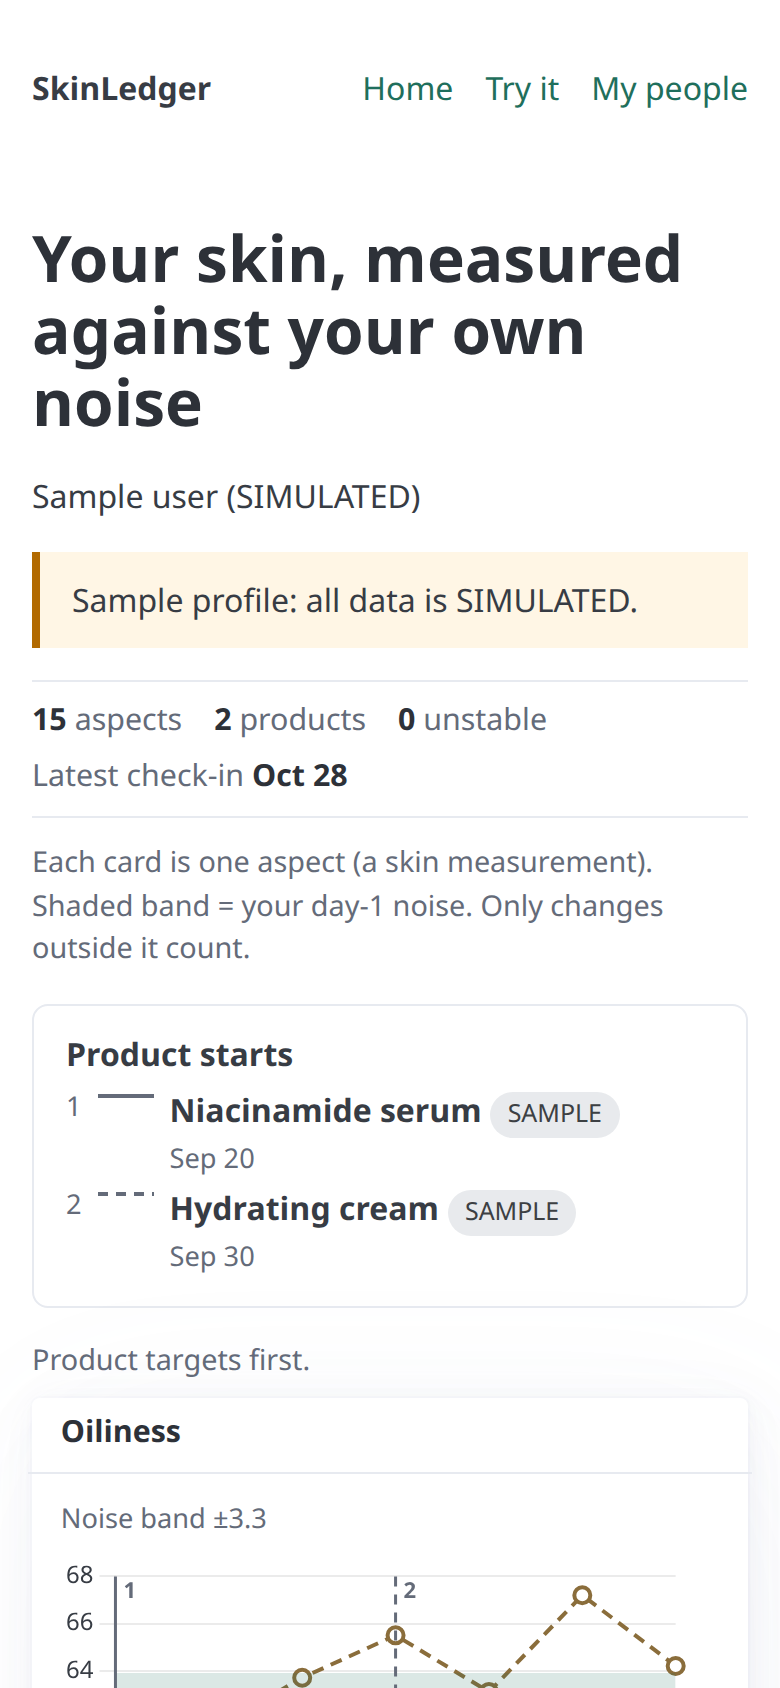
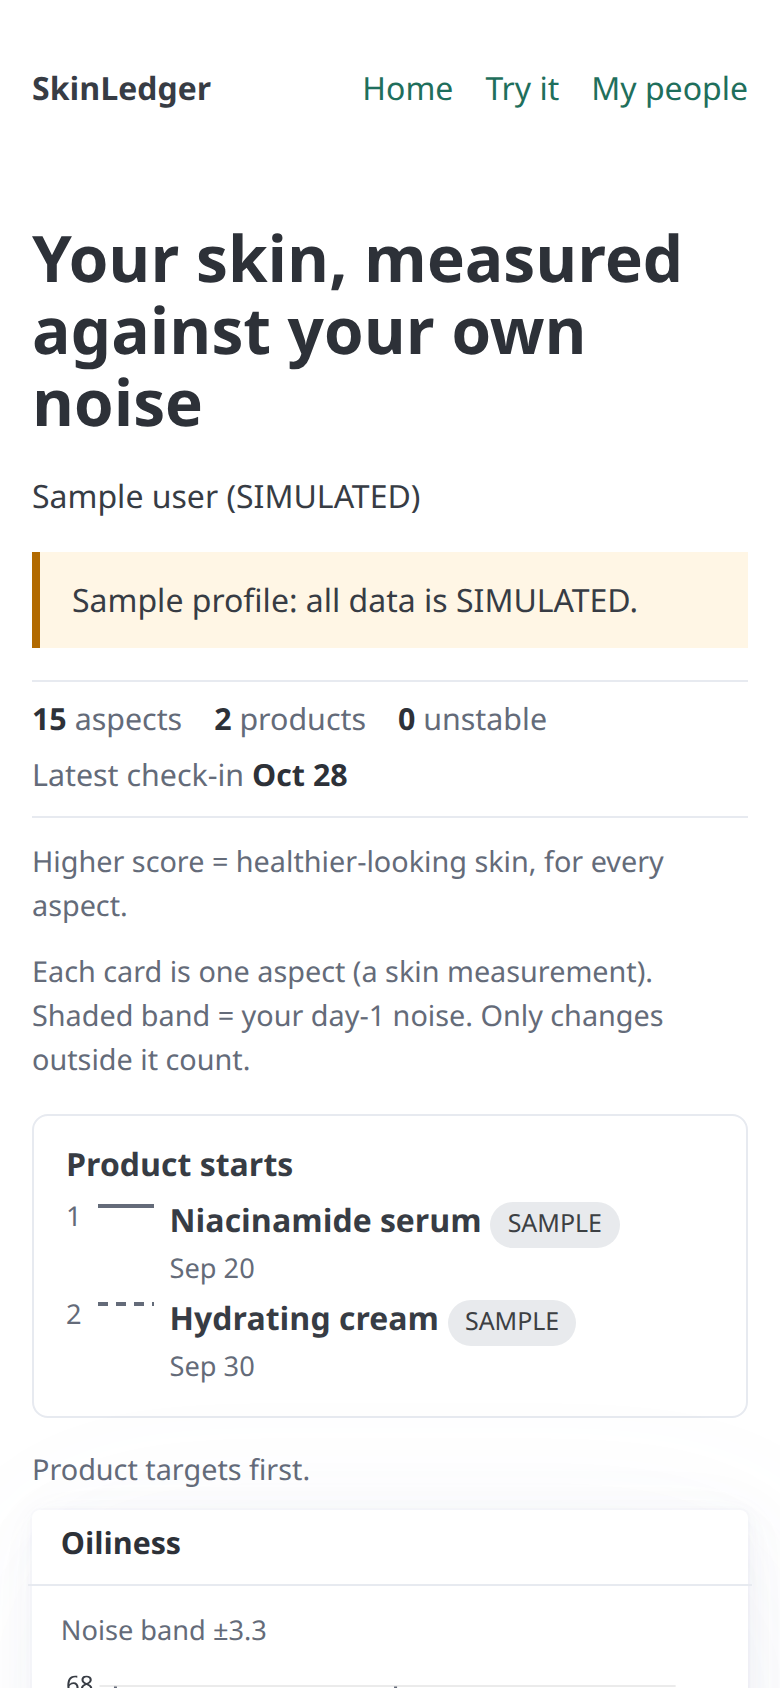
P16b-11: score direction label

Changed region(s): [[0.0308, 0.4929, 0.8923, 1.0], [0.6462, 0.6469, 0.7692, 0.6777], [0.7385, 0.9242, 0.7692, 0.955]]

diff --git a/src/skinledger/web/templates/products.html b/src/skinledger/web/templates/products.html
@@ -65,6 +65,7 @@
         {{ form.targets|length }} of {{ max_targets }} selected
       </p>
       <p class="product-aspects-note">{{ product_aspects_note }}</p>
+      <p class="score-note">{{ score_direction_note }}</p>
       {% set unstable_aspects = aspects|selectattr("unstable")|list %}
       {% if unstable_aspects %}
       <p class="product-unstable-note">{{ unstable_hint }}</p>

diff --git a/src/skinledger/web/templates/verdict.html b/src/skinledger/web/templates/verdict.html
@@ -29,6 +29,7 @@
     {% if target_rows %}
     <h2>{{ verdict_targets_title }}</h2>
     <p class="verdict-note">{{ verdict_aspect_note }}</p>
+    <p class="score-note">{{ score_direction_note }}</p>
     <div class="verdict-table-wrap">
       <table>
         <thead>

diff --git a/src/skinledger/web/templates/timeline.html b/src/skinledger/web/templates/timeline.html
@@ -23,6 +23,7 @@
     <span>{{ timeline_summary_latest }} <strong>{{ summary_latest|short_date }}</strong></span>
     {% endif %}
   </p>
+  <p class="score-note">{{ score_direction_note }}</p>
 
   {% if has_band %}
   <p class="timeline-legend">{{ band_legend }}</p>

diff --git a/src/skinledger/web/static/app.css b/src/skinledger/web/static/app.css
@@ -987,6 +987,12 @@ input[type="file"]::file-selector-button:hover {
   color: var(--sl-muted);
 }
 
+.score-note {
+  margin: 0.25rem 0 0.75rem;
+  font-size: 0.9rem;
+  color: var(--sl-muted);
+}
+
 .verdict-changes {
   padding-left: 0;
   list-style: none;

diff --git a/tests/test_verdict_screen.py b/tests/test_verdict_screen.py
@@ -231,6 +231,17 @@ def test_the_owner_sees_the_verdict_card(env, web):
     assert copy.DISCLAIMER in card
 
 
+def test_score_direction_label_is_on_verdict_and_timeline(env, web):
+    person_id, product_id, _, _ = seed_product(env)
+    login(web)
+
+    verdict = web.get(f"/products/{product_id}/verdict")
+    timeline = web.get(f"/people/{person_id}/timeline")
+
+    assert copy.SCORE_DIRECTION_NOTE in verdict.text
+    assert copy.SCORE_DIRECTION_NOTE in timeline.text
+
+
 def test_another_browser_gets_404(env, web):
     _, product_id, _, _ = seed_product(env)
     login(web, OTHER_TOKEN)

diff --git a/src/skinledger/web/routes/verdicts.py b/src/skinledger/web/routes/verdicts.py
@@ -74,7 +74,11 @@ def _outside_state(target: TargetResult) -> str:
 
 
 def _direction_label(target: TargetResult) -> str:
-    """The verdict engine treats higher raw_score as better; mirror it in words."""
+    """The verdict engine treats higher raw_score as better; mirror it in words.
+
+    Source: YouCam AI Skin Analysis docs, Inputs & Outputs: raw_score is 1-100 and
+    "a higher score indicates healthier and more aesthetically pleasing skin condition".
+    """
     if target.status == "improved":
         return copy.VERDICT_DIRECTION_IMPROVED
     if target.status == "worse":

diff --git a/src/skinledger/web/templating.py b/src/skinledger/web/templating.py
@@ -47,6 +47,7 @@ templates.env.globals.update(
     capture_fallback_text=copy.CAPTURE_FALLBACK_TEXT,
     capture_fallback_ms=copy.CAPTURE_FALLBACK_SECONDS * 1000,
     baseline_done=copy.BASELINE_DONE,
+    score_direction_note=copy.SCORE_DIRECTION_NOTE,
     timeline_product_key=copy.TIMELINE_PRODUCT_KEY,
     timeline_numbers=copy.TIMELINE_NUMBERS,
     timeline_show_fewer=copy.TIMELINE_SHOW_FEWER,

diff --git a/src/skinledger/copy.py b/src/skinledger/copy.py
@@ -125,6 +125,10 @@ NO_BAND_YET = "Take 2 baseline captures first."
 
 TIMELINE_TITLE = "Your skin, measured against your own noise"
 
+SCORE_DIRECTION_NOTE = (
+    "Higher score = healthier-looking skin, for every aspect."
+)
+
 TIMELINE_PRODUCT_KEY = "Product starts"
 TIMELINE_NUMBERS = "Numbers"
 TIMELINE_SHOW_ALL = "Show all {count} aspects"

diff --git a/docs/skinledger-plan.md b/docs/skinledger-plan.md
@@ -184,6 +184,7 @@ Native app or APK, HD, real multi-user accounts with passwords, LLM, brand or na
 - **Check-in** = the capture closest to day 14 (window 12–20) or day 28 (window 26–35) from the start.
 - **Unstable aspects are skipped.** Bands come only from `noise.py`. A target aspect with `is_unstable=True` (band > 10) is excluded from the evaluation and reported as "unstable, not used". If **all** target aspects are unstable, the outcome is `no_band` with the message "Your target aspects are too noisy in your setup to judge; retake the baseline in steadier light" and the flag `all_targets_unstable=True` (the `verdicts.outcome` CHECK allows only keep/no_change/worse/too_early/no_band).
 - **Per (stable) target aspect:** Δ = check-in − baseline (higher = better). *Improved* if Δ > band; *Worse* if Δ < −band; otherwise *within noise*.
+- **Score direction (source):** YouCam AI Skin Analysis docs, Inputs & Outputs: `raw_score` is 1–100 and "a higher score indicates healthier and more aesthetically pleasing skin condition". SkinLedger therefore reads a higher score as better for every aspect.
 - **Verdict:** if any target aspect got worse → **Worse → pause & consult**. Otherwise, if at least one improved → **Keep**. If none left the band → **No measurable change → reconsider before rebuying**. Before day 12 → **Too early to tell**. No noise band → no verdict ("Take 2 baseline captures first").
 - **Warnings:** if another product started or ended in the window → *"Another product changed in this window; this verdict can't isolate one product."* If the compared captures mix REAL/SIMULATED → SIMULATED badge on the verdict. If they mix upload and Camera Kit → note *"Captured different ways; differences may be larger."*
 - Shows the 3 aspects with the largest \|Δ\| (across the stable ones of the 15 numeric aspects, not only targets) with arrows and, if both captures are REAL, their masks side by side.
